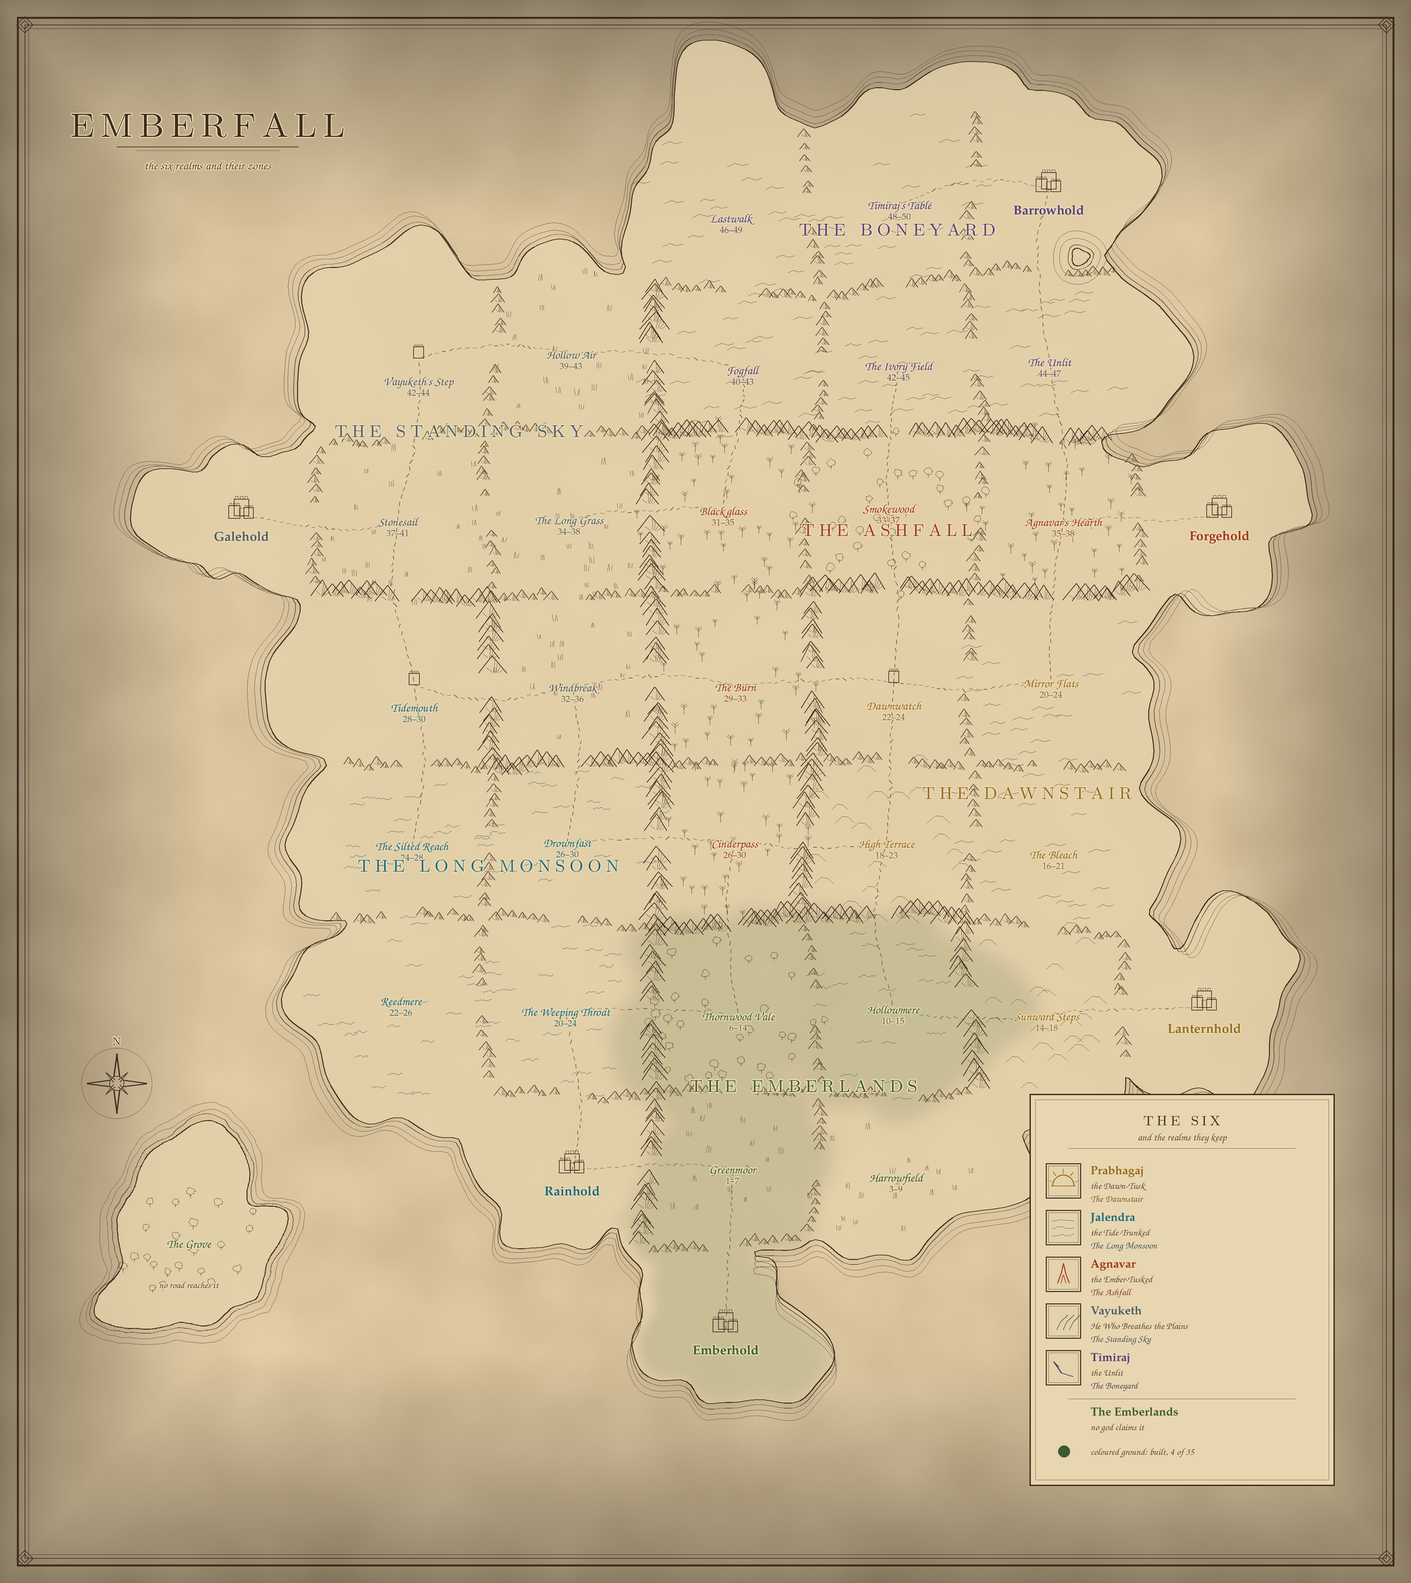
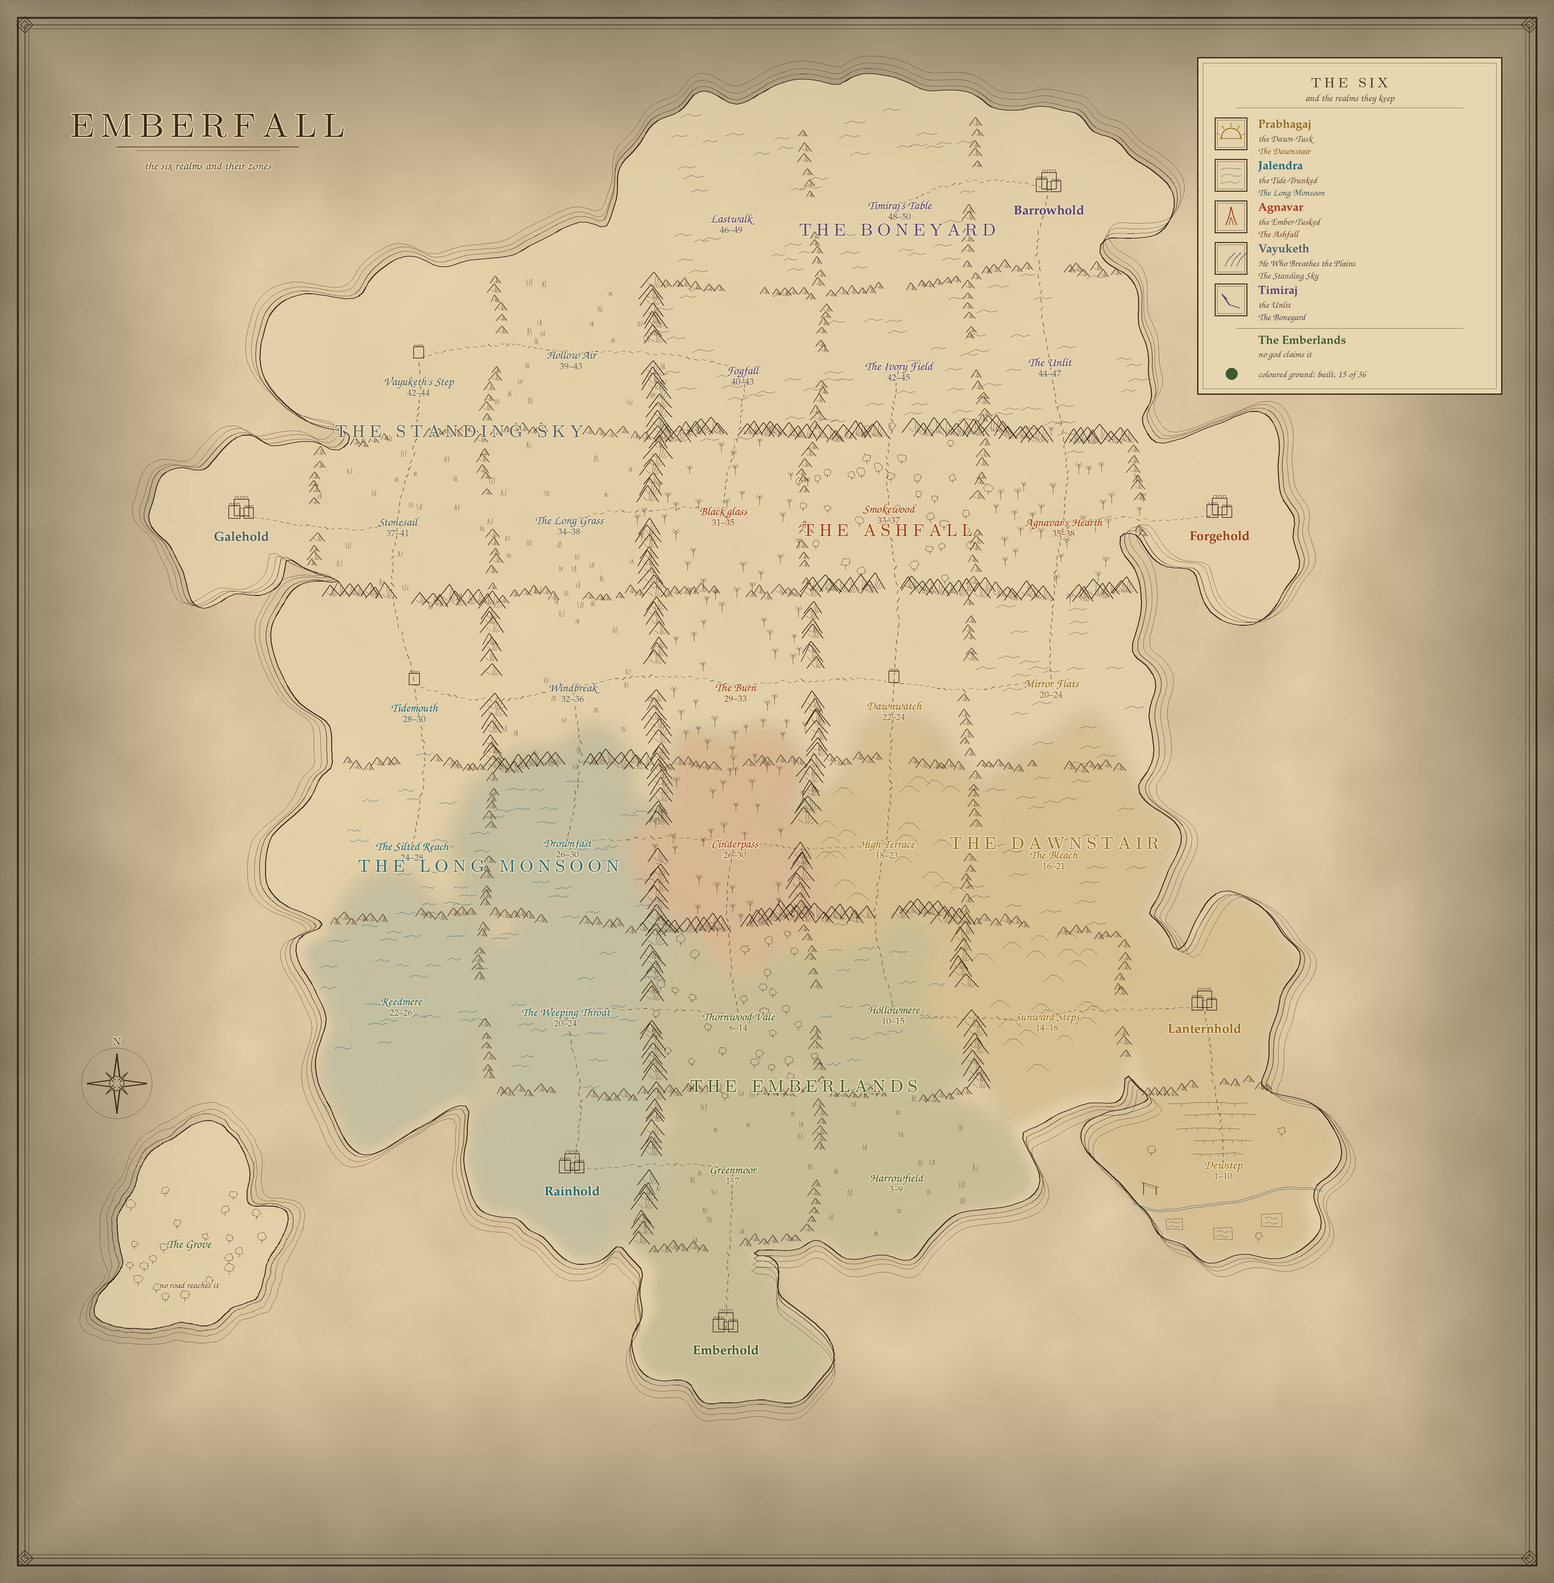
AFK, pet swings online, and Dewstep on the world atlas
- AFK: /afk [message], or ten idle minutes (config afk_minutes); a key or a
  click brings you back. "[AFK]" on the nameplate (state flag 32) and in /who;
  a tell to an away player is answered with their message.
- A swing or flinch now plays out unless the body is running: a client's copy
  of a pet was still settling onto the server's position when each swing came,
  and the walk loop cut every one (pets never showed an attack online).
  --nettest=Petter checks a pet's clips on a client.
- The world atlas draws Dewstep below Lanternhold (tea terraces, paddies, the
  river, a broken shrine) and moves the legend to the top right; built 15 of 36.

diff --git a/tools/atlas_map.py b/tools/atlas_map.py
@@ -37,7 +37,7 @@ LINKS = W['links']
 
 P = 250.0                      # pixels per grid cell
 MARGIN = 300.0
-RIGHT_PAD = 300.0
+RIGHT_PAD = 520.0              # sea enough on the east for the cartouche
 BOTTOM_PAD = 90.0
 BERTH = {'the_grove': (-3.3, 0.55)}     # off-grid zones get a display berth
 
@@ -64,7 +64,13 @@ def field(sigma, amp, shape):
     return f * amp
 
 WS = 4                                    # warp field is coarse; sampled smoothly
-wshape = (Hpx // WS + 2, Wpx // WS + 2)
+# The field is drawn on a FIXED lattice, not on the plate. Widening the plate
+# to make room for the cartouche would otherwise redraw every wobble on the
+# map - each zone's coast, ridge and label would shift - and the only thing
+# that actually changed is how much sea is on the right.
+WBASE = (2440, 2175)
+wshape = (max(Hpx, WBASE[0]) // WS + 2, max(Wpx, WBASE[1]) // WS + 2)
+wshape = (WBASE[0] // WS + 2, WBASE[1] // WS + 2)
 WX = field(24, 0.150 * P, wshape) + field(8, 0.048 * P, wshape)
 WY = field(24, 0.150 * P, wshape) + field(8, 0.048 * P, wshape)
 
@@ -365,6 +371,74 @@ def hillock(d, x, y, w, seed):
     stroke(d, [(x - w / 2, y), (x - w * 0.16, y - w * 0.32),
                (x + w * 0.16, y - w * 0.30), (x + w / 2, y)], INK_SOFT, 0.9, 220)
 
+def terrace_row(d, x, y, w, seed):
+    """A short hatched step - one tea terrace cut into the hillside."""
+    g = seeded(seed)
+    pts = [(x - w / 2 + w * i / 6, y + math.sin(i * 0.8 + g.uniform(0, 3)) * 1.3)
+           for i in range(7)]
+    stroke(d, pts, INK_SOFT, 0.85, 215)
+    for i in range(1, 6):                      # ticks down the cut face
+        qx, qy = pts[i]
+        stroke(d, [(qx, qy), (qx + g.uniform(-1.2, 1.2), qy + 4.2)],
+               INK_SOFT, 0.55, 170)
+
+def paddy(d, x, y, s_, seed):
+    """A flooded field: a low bank with water standing inside it."""
+    c = [(x - s_, y - s_ * 0.62), (x + s_, y - s_ * 0.70),
+         (x + s_ * 1.04, y + s_ * 0.64), (x - s_ * 0.96, y + s_ * 0.58)]
+    stroke(d, c + [c[0]], INK_SOFT, 0.8, 210)
+    for k in (-1, 1):
+        stroke(d, [(x - s_ * 0.62, y + k * s_ * 0.26),
+                   (x - s_ * 0.20, y + k * s_ * 0.26 - 1.4),
+                   (x + s_ * 0.20, y + k * s_ * 0.26 + 1.4),
+                   (x + s_ * 0.62, y + k * s_ * 0.26)], (52, 86, 104), 0.6, 165)
+
+def shrine(d, x, y, h, seed):
+    """A broken gate - older than the city that looks down on it. Two posts,
+    one snapped short, and a lintel left leaning on the stump."""
+    w = h * 0.52
+    stroke(d, [(x - w, y), (x - w, y - h)], INK, 1.0)                 # standing post
+    stroke(d, [(x + w, y), (x + w, y - h * 0.58)], INK, 1.0)          # the stump
+    stroke(d, [(x + w * 0.76, y - h * 0.58), (x + w, y - h * 0.66),
+               (x + w * 1.22, y - h * 0.56)], INK_SOFT, 0.7, 200)     # its broken top
+    stroke(d, [(x - w * 1.34, y - h * 1.02), (x + w * 1.24, y - h * 0.62)], INK, 1.0)
+    stroke(d, [(x - w * 0.94, y - h * 0.74), (x + w * 0.90, y - h * 0.50)],
+           INK_SOFT, 0.75, 195)                                       # the crossbar
+
+def dewstep_terrain(d, z):
+    """Dewstep is the one farmed zone on the plate, so it gets placed glyphs
+    rather than a scatter: terraces stepping down from Lanternhold's wall, a
+    river running west to east, paddies below it, and a shrine nobody keeps.
+    Everything is offset from the zone centre in units of its own radius, so
+    it follows the blob and the warp like the rest of the map."""
+    cx, cy = to_px(*at(z))
+    r = 0.70 * P * (z['size'] / 512.0) ** 0.30
+    g = seeded(31337)
+
+    def put(fn, ox, oy, *a):
+        wx, wy = warp(cx + ox, cy + oy)
+        wx, wy = float(wx), float(wy)
+        if inland(wx, wy):
+            fn(d, wx, wy, *a)
+
+    for i in range(5):                          # terraces, under the city wall
+        put(terrace_row, g.uniform(-14, 14), -r * 0.62 + i * r * 0.13,
+            r * (0.76 - 0.07 * i), 600 + i)
+
+    n = 110                                     # the river, west to east
+    xs = np.linspace(cx - r * 0.92, cx + r * 0.92, n)
+    ys = cy + r * 0.32 + np.sin(np.linspace(0, 5.2, n)) * r * 0.085
+    wx, wy = warp(xs, ys)
+    wx, wy = jitter(wx, wy, 2.2, 4242)          # drawn by hand, like the coast
+    stroke(d, list(zip(wx, wy)), (52, 86, 104), 0.9, 180)
+    stroke(d, list(zip(wx + 1.1, wy + 2.8)), (52, 86, 104), 0.5, 105)
+
+    for i, (ox, oy) in enumerate(((-0.46, 0.56), (-0.02, 0.67), (0.42, 0.54))):
+        put(paddy, ox * r, oy * r, 12.5 + i * 1.6, 700 + i)
+    for i, (ox, oy) in enumerate(((-0.66, -0.16), (0.60, -0.24), (0.30, 0.76))):
+        put(tree, ox * r, oy * r, 16, 800 + i, 'round')
+    put(shrine, -r * 0.72, r * 0.24, 19, 900)
+
 FILLERS = {
     'wood':      ('tree', 'round'), 'field': ('tuft', None),
     'water':     ('wave', None),    'burn':  ('tree', 'dead'),
@@ -516,39 +590,42 @@ def crest(d, x, y, r, area):
         stroke(d, [(x-r*0.55, y-r*0.35), (x-r*0.25, y-r*0.05)], c, 1.0)
 
 def legend(d):
-    """A cartouche in the open sea, bottom right.
+    """A cartouche in the open sea, north-east, beside Barrowhold.
 
-    It lived in a right-hand gutter first and ran off the plate: the continent
-    reaches gx 3, and Forgehold and Lanternhold sit under where the crests
-    were. The empty water below them is the only clear space big enough.
+    It lived in a right-hand gutter first and ran off the plate; it then sat in
+    the water south-east of Lanternhold, which is where Dewstep now is. The
+    only water left that covers no land and no label is the north-east corner,
+    so the plate carries a little more sea on that side and the cartouche sits
+    in it. The rows are pitched a shade tighter than they were so the panel
+    clears Forgehold's northern cape - the contents are unchanged.
     """
-    w, h = 470, 604
-    x = Wpx - w - 118
-    y = Hpx - h - 150
+    w, h = 470, 520
+    x = Wpx - w - 80
+    y = 88
     d.rectangle([(x * S, y * S), ((x + w) * S, (y + h) * S)],
                 fill=(231, 214, 176, 224), outline=INK + (255,), width=int(2.2 * S))
     d.rectangle([((x + 9) * S, (y + 9) * S), ((x + w - 9) * S, (y + h - 9) * S)],
                 outline=INK_SOFT + (165,), width=int(0.9 * S))
-    halo_text(d, (x + w / 2, y + 40), 'THE SIX', 'caps', 21, INK, 'mm', 4)
-    halo_text(d, (x + w / 2, y + 66), 'and the realms they keep', 'label', 16,
+    halo_text(d, (x + w / 2, y + 38), 'THE SIX', 'caps', 21, INK, 'mm', 4)
+    halo_text(d, (x + w / 2, y + 62), 'and the realms they keep', 'label', 16,
               INK_SOFT, 'mm')
-    stroke(d, [(x + 60, y + 84), (x + w - 60, y + 84)], INK_SOFT, 0.9, 190)
-    ry = y + 108
+    stroke(d, [(x + 60, y + 78), (x + w - 60, y + 78)], INK_SOFT, 0.9, 190)
+    ry = y + 96
     for area in ('dawnstair', 'monsoon', 'ashfall', 'standingsky', 'boneyard'):
         name, title_ = DEITY[area]
-        crest(d, x + 52, ry + 26, 27, area)
-        text(d, (x + 94, ry + 12), name, 'bold', 18, PEN[area], 'lm')
-        text(d, (x + 94, ry + 33), title_, 'label', 15, INK_SOFT, 'lm')
-        text(d, (x + 94, ry + 53), AREAS[area]['name'], 'label', 15,
+        crest(d, x + 52, ry + 22, 25, area)
+        text(d, (x + 94, ry + 9), name, 'bold', 18, PEN[area], 'lm')
+        text(d, (x + 94, ry + 29), title_, 'label', 15, INK_SOFT, 'lm')
+        text(d, (x + 94, ry + 48), AREAS[area]['name'], 'label', 15,
              lerp(PEN[area], INK_SOFT, .45), 'lm')
-        ry += 72
+        ry += 64
     stroke(d, [(x + 60, ry + 2), (x + w - 60, ry + 2)], INK_SOFT, 0.9, 190)
-    text(d, (x + 94, ry + 24), 'The Emberlands', 'bold', 18, PEN['emberlands'], 'lm')
-    text(d, (x + 94, ry + 45), 'no god claims it', 'label', 15, INK_SOFT, 'lm')
+    text(d, (x + 94, ry + 22), 'The Emberlands', 'bold', 18, PEN['emberlands'], 'lm')
+    text(d, (x + 94, ry + 41), 'no god claims it', 'label', 15, INK_SOFT, 'lm')
     n = sum(1 for z in ZONES.values() if z.get('built') and z['cell'])
-    d.ellipse([((x + 44) * S, (ry + 74) * S), ((x + 62) * S, (ry + 92) * S)],
+    d.ellipse([((x + 44) * S, (ry + 63) * S), ((x + 62) * S, (ry + 81) * S)],
               fill=PEN['emberlands'] + (70,), outline=INK_SOFT + (140,), width=int(0.8 * S))
-    text(d, (x + 94, ry + 83), f'coloured ground: built, {n} of '
+    text(d, (x + 94, ry + 72), f'coloured ground: built, {n} of '
          f'{sum(1 for z in ZONES.values() if z["cell"])}', 'label', 15, INK_SOFT, 'lm')
 
 def compass(d, x, y, r):
@@ -648,7 +725,7 @@ def build():
         d = ImageDraw.Draw(img, 'RGBA')
 
     for z in ZONES.values():                   # terrain, over the wash
-        scatter(d, z)
+        (dewstep_terrain if z['id'] == 'dewstep' else scatter)(d, z)
 
     for i, l in enumerate(LINKS):              # the walls, and the notch in each
         a, b = ZONES[l['a']], ZONES[l['b']]

diff --git a/CLAUDE.md b/CLAUDE.md
@@ -51,6 +51,8 @@ Classic-EverQuest-style RPG in Godot 4.7 (GDScript). Solo slice now; multiplayer
 - The zone map (M; `scripts/ui/map_window.gd`; mouselook moved to Ctrl+M): painted like parchment from the zone itself (`height_at` hill-shaded, `_ground_color` washed in, water, decks, roads, the mountain ring) a few rows a frame the first time it's opened in a zone; marks for exits (always), landmarks (`LANDMARK_NAMES`, `PROP_NAMES`), town services from the zone's npcs (guildmaster, bank, merchant, quest giver/blessing) and `zone.stations`, with a clickable legend; you, your group and pet; wheel zooms, drag pans. Fog of war: a 40x40 grid per zone revealed within 45 m of you, saved per character in `user://map_<name>.json` (this computer only); marks show only on explored ground.
 - The hotbars are `HotSlot` buttons (`scripts/ui/hot_slot.gd`): icon on a gem colored by kind, key in the corner, cooldown sweep, dimmed when unusable, lit for toggles. Two rows of ten you arrange yourself: `Player.hotbar` (20 entries, main row keys 1-0 = `hotbar_1..10`, second row Ctrl+1-0 or Shift+1-0 = `hotbar2_1..10` (Ctrl so mouselook players needn't fight Shift's sprint), matched exactly so Ctrl+1 isn't also 1) holds `"spell:<id>"`, `"item:<base id>"` or `"act:<name>"` (`Player.HOTBAR_ACTIONS`), saved with the character and sent with its state; `Player.activate_hotbar(i)` uses a slot (keys and clicks alike). Edits go through `World.request_hotbar_set` / `request_hotbar_swap` (validated: known spells, real items, listed actions). The HUD: drag from the spellbook (P, `_build_spellbook`) onto a slot, click a slot with an item on the cursor to make an item hotkey (the item is stowed back), drag slots onto each other to swap, drag off or right-click to clear; `Controls.hotbar_locked` (per machine) stops dragging and clearing. A new spell lands in the first empty slot; old saves get `Player.default_hotbar` (first ten spells). Attack, Ranged and Sit stay as fixed buttons beside the main row; any timer in `p.cooldowns` sweeps, including `"ranged"` and an item's `"item:<group>"`. Spell and action icons are rendered by `tools/blender/spell_icons.py` into `assets/icons/spell_<id>.png` / `action_<name>.png` (`GameData.icon(name)`); a new spell needs a builder there, or it shows its initials.
 - Movable windows: `UIKit.draggable(panel, key)` lets a HUD window be dragged by its background (buttons still click) and keeps it on screen; where it was left is `Controls.window_positions` (settings.json, per machine), restored at load. `HUD._make_draggable` lists them (player, target, pet, group, buffs, debuffs, quests, chat, tells, track); layout code that places a window every frame (buffs, the quest tracker under the player window) must skip it once `UIKit.moved(panel)`. Settings' "Reset window positions" is `UIKit.reset_windows`. A pet whose owner has left the world frees itself (`Pet._physics_process`), and the server dismisses a leaving player's pet (`main._on_remote_left`).
+- AFK: `World.request_afk(player, on, message)` (`/afk [message]`; the local player's `_idle` past config `afk_minutes` (10) asks for it, and a key or click away from the chat box (`Player._input`) ends it). `Entity.afk` goes out as state flag 32 and in the player's own state; `Entity.show_name` adds "[AFK]" to the nameplate; `/who` marks it and a tell to an away player is answered with `afk_message`.
+- Animations: `CharacterModel._process` lets a one-shot (a swing, a flinch) play out unless the body is running (over 4.2 m/s): a client's copy of a pet or monster is still settling onto the server's position when it swings, and the walk loop used to cut every such swing (pets never showed an attack online). `--nettest=Petter --port=<p>` checks a pet's clips on a client.
 - Encumbrance: `GameData.item_weight(id)` (an item's `"weight"`, else a default by slot, skill, wear and name); bags may have `"weight_reduction"` for their contents. `Player.carried_weight()` (worn + pack + cursor + `coin_weight()`: 0.1 per coin of the fewest-coin purse, config `coin_weight`), `carry_capacity()` (config `carry_base` + `carry_per_level` x level + `carry_per_str` x STR), `encumbrance_speed()` (1 up to capacity, -10% per 10% over, floor 0.4; movement uses it, below 0.6 no sprinting). `World._check_burden` says when it starts and stops.
 - Quests (`data/quests.json`) are item hand-ins to a `giver`; `start_keyword` is optional, and `"next"` makes a quest line: completing a step accepts the next, whose giver may be anyone (A Proper Pack: Tovin -> Warden Holt -> Tovin). Each step's `first_reward_item` is usually what the next step wants. `"repeatable"` quests pay full XP once, then `quest_repeat_xp` (config, 0.5) of it, or the quest's own `repeat_xp`; coin and faction stay whole. The quest tracker is clickable: an item line says where it's found and a quest's name where its giver stands (`QuestHints`, `scripts/core/quest_hints.gd`, worked out from mob loot, zone spawns, fish tables, earlier quests' rewards, merchants and recipes); a quest's own `"hints": {item: text}` overrides one.
 - Ranged attacks: an item with `"slot": "range"` has `skill` (archery/throwing), `range`, `delay` and optional `ammo` (an `ammo_type` consumed from the pack, which adds its `dmg` and names the `projectile` drawn). `World.request_ranged` checks range, `in_sight` (a ray on `Layers.WORLD`) and the reload, and a miss still adds hate so it pulls. A hit on a mob has `config.ammo_recover_chance` (15%) to lodge the ammo in it (`"lodged_ammo"` meta), and `_kill_mob` puts it on the corpse as one stack. The flight is only a picture: `World.shot_fired` -> `Projectile.launch` on every machine that draws (`Net.broadcast_shot` online).

diff --git a/README.md b/README.md
@@ -109,6 +109,8 @@ For testing on one machine: run the server (add `--data=/tmp/efdata` to keep tes
 - **Shaman**, the seventh class (any deity): calls on the spirits. Slows are its signature: Heavy Limbs, Leaden Dream, Stinging Cloud and Hornet Plague make a monster attack 20-50% slower (named foes shrug off half). It buffs friends and the group (Ox-Spirit, Hearth Spirit, Bear-Hide Totem, Lynx Step, Hummingbird's Gift, Talisman of the Totem, Chant of the Pack, Ancestral Ward), mends wounds over time (Spirit Mend, Spirit Regrowth) or at once (Warm Hands, Spirit Healing, Grandmother's Mending), rots foes with Spirit Blight, Marsh Breath and Viper's Breath, and freezes them with Winter's Bite, Rime Strike, Howl of Winter and Winter's Grasp. At 20 a spirit wolf answers its call. Shamans wear leather and mail, carry staves, daggers and shields, and train with Grandmother Tuvi by the Emberhold hearth, Spiritwalker Hosa in Lanternhold and Rain-Speaker Ekon in Rainhold. The staves caster monsters carry now have caster stats too (a Worn Staff +5 mana, an Oak Staff +1 INT, +1 WIS, +10 mana), which quality scales like everything else.
 - **High Terrace**: north of Hollowmere (and west of The Bleach), a 512 m mountainside for levels 18-23. Misty rice paddies and tea terraces climb in eight great steps from the Pilgrims' Rest (Brother Tenzin, last of his order; Tea-Mother Pema, who sells tea and supplies; a Terrace Warden) to the ruined monastery of the Dawn-Tusk, with prayer flags, stone lanterns, stupas and waterfalls along the way. The Fallen Order holds the monastery under Abbot Varun the Unbound, and the stone guardians he woke stand watch: gargoyles on broken pillars, golems in the courts, the Terrace Colossus in the highest one. Harpies nest on the upper steps (Queen Shrikewing), griffons ride the wind (Skyrend the Matriarch), snow leopards stalk the tea (and the Ghost of the Terraces at night), with yaks and mountain trolls. Five quests: prayer beads and the Abbot's Seal and the Colossus's heartstone for Tenzin, harpy talons and Skyrend's plume for Pema. Its own theme plays.
 - **Dewstep**: below Lanternhold, through the city's new south gate, a 384 m beginner zone for levels 1-10 and the home ground of high elves, who now start and bind in Lanternhold. Terraced tea gardens and flooded rice paddies step down from the city walls, stone lanterns light the roads, and a river runs under a footbridge. The tea-pickers' house by the gate has Headpicker Anjali, Hunter Kaveri, Brother Ravi, Tea-Seller Moti (supplies) and Warden Tashi. Lantern moths, paddy rats and rice beetles in the gardens; thieving monkeys and Pilfer the Troop-King in the old orchard; jackals in the west meadows, hooded cobras and young tigers in the southwest (and Amberstripe, the old tigress); the Dustpaw, jackal-folk raiders, in a camp past the paddies under Chief Rattlejaw; lantern wisps around a broken shrine of the Dawn-Tusk, where hungry ghosts and the Lantern-Widow walk at night. Ten quests with rewards for levels 2-10. Its own theme plays.
+- **AFK**: type /afk (with a message if you like: /afk back in five) or sit idle for ten minutes and you're marked away: "[AFK]" over your head and in /who, and anyone who sends you a tell gets your message back. Press a key or click to return.
+- **Pets swing online**: pets' attacks and flinches now show for players on a server, where they used to glide through fights without moving.
 - **Hair**: choose a hairstyle (short, long, flowing, rugged, or bald and bearded, whoever you are) and one of ten hair colors at character creation; beards follow the color. Every character may restyle once from the character sheet.
 - **Cinderpass**: north of Thornwood Vale, the Ashfall's first zone, 448 m for levels 26-30. A volcanic pass under falling ash: rivers of glowing lava (they burn), smoking vents, obsidian spires and basalt columns, a charred forest where it meets Thornwood. The Forgehold scouts hold an outpost at the south entry (Scout-Captain Brenna; Smith Tovar, who sells Emberforged plate, Cinderscale leather, Ashweave cloth and weapons for 25-30, and has a forge). The Cult of the Ember holds a fortified camp in the east under High Pyromancer Ashkar; ash drakes and lava salamanders roam the western lava fields where Cindermaw nests; magma golems, fire elementals and Pyrrhus the Molten walk among the northern vents; charred dead rise in the burned forest and ash wraiths (and the Ashen Lord) walk at night. Four quests: ember sigils and Ashkar's brand for Brenna, drake scales and Cindermaw's heart for Tovar. Its own theme plays.
 - **Level cap 30**: three new abilities per class at 26, 28 and 30 (Mighty Blow, Unbreakable, Rampage; Sunmend, Dawn's Wrath, Aegis of the Dawn; Glacial Spike, Mana Ward, Inferno; Shadowstrike, Blade Flurry, Deathmark; Elemental Mending, Primal Surge, Call of the Elemental Lord; Soul Harvest, Plague, Raise Bone Colossus; Glacial Roar, Locust Tide, Ancestral Avatar).
